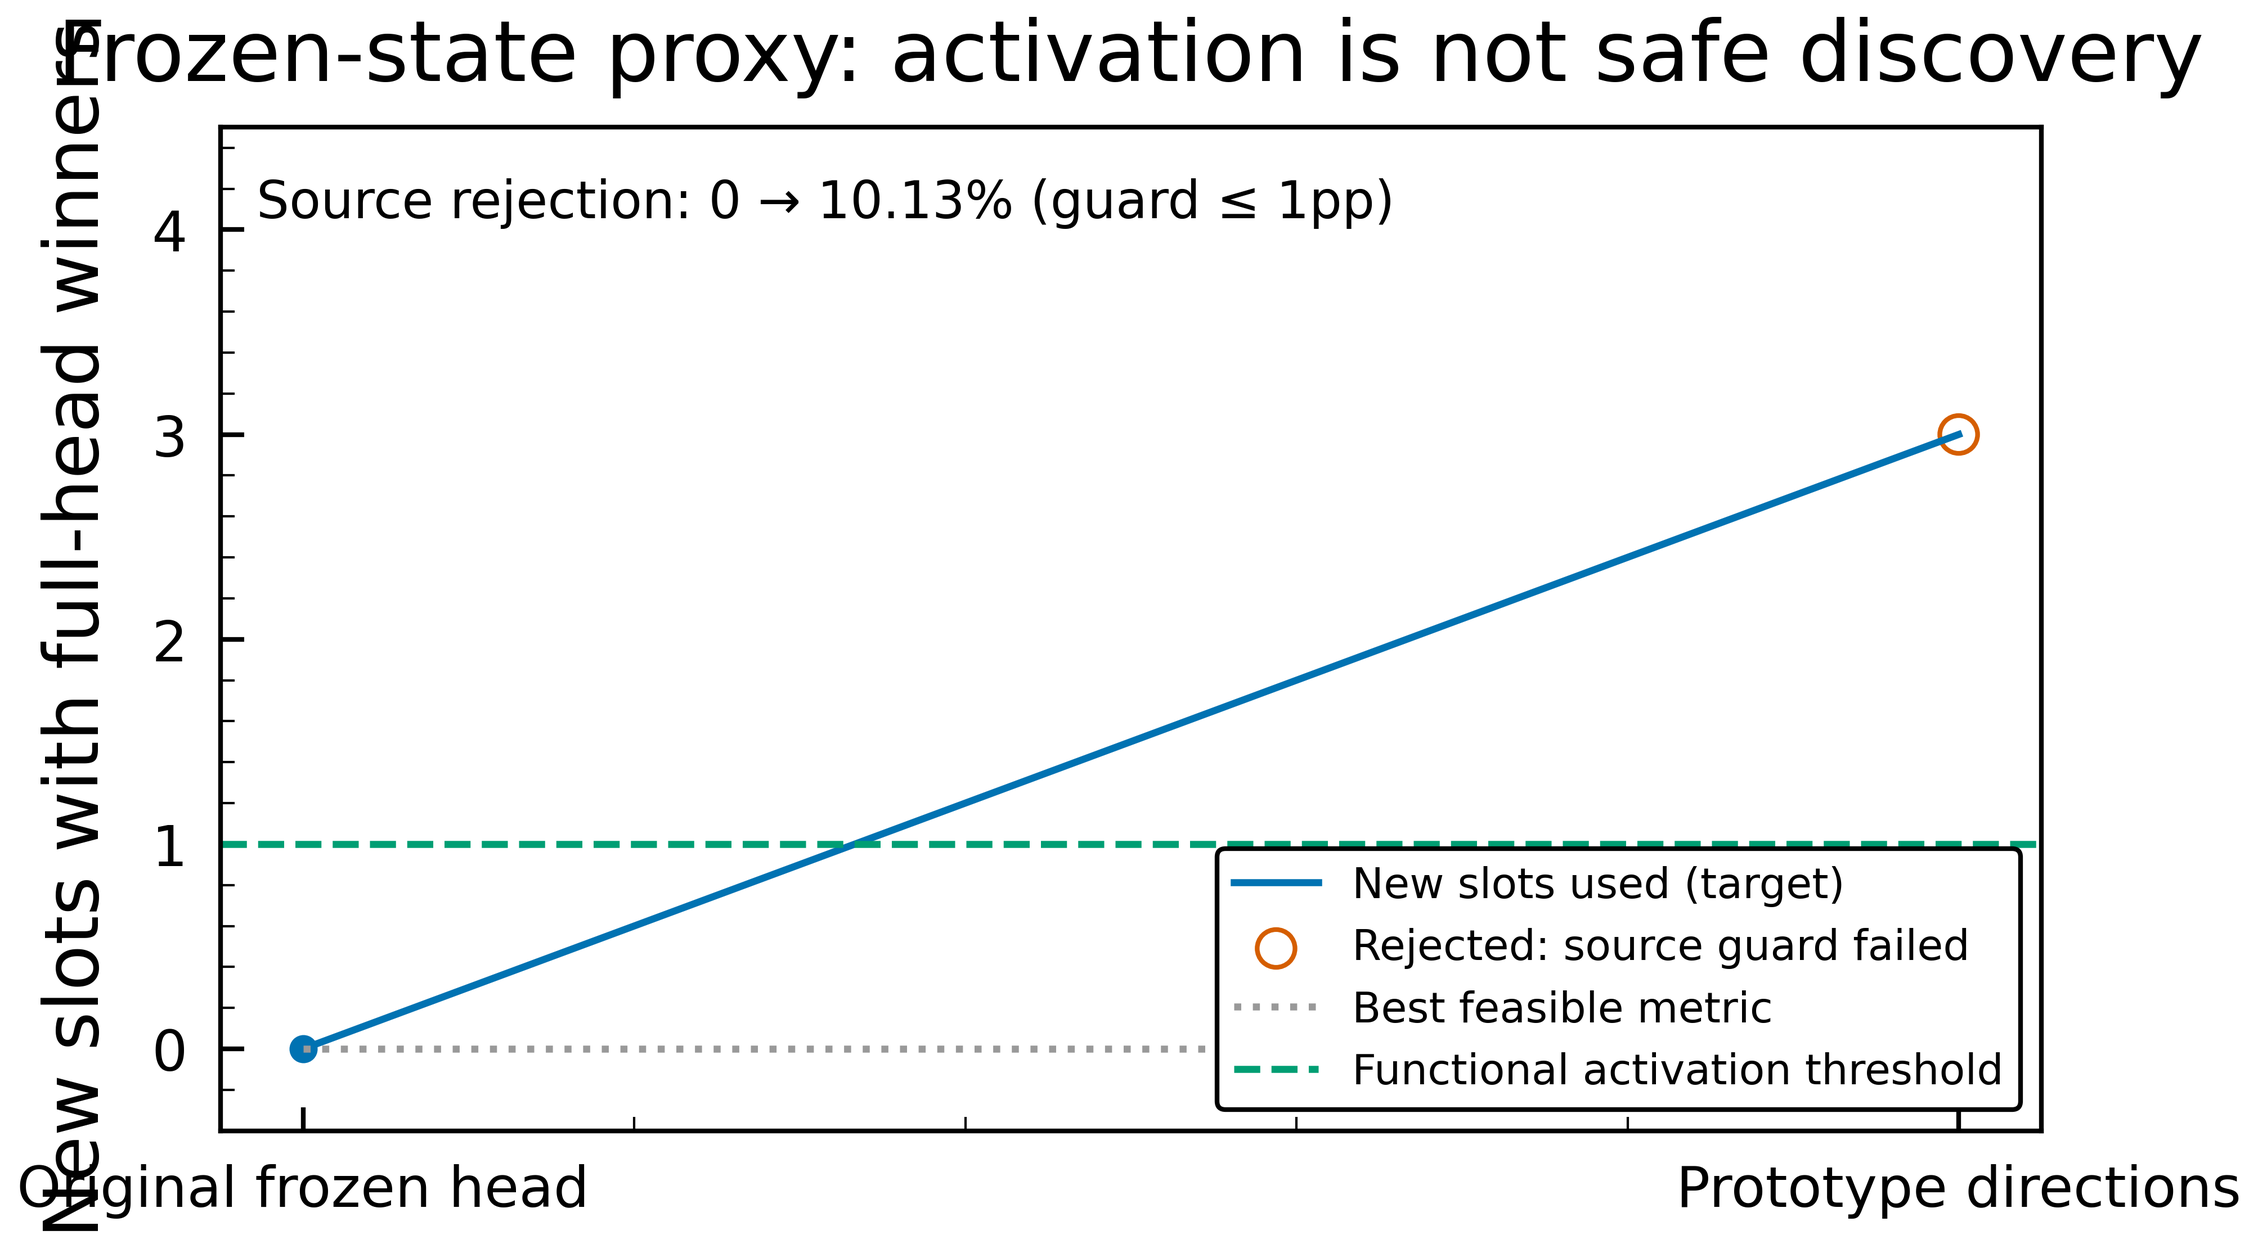
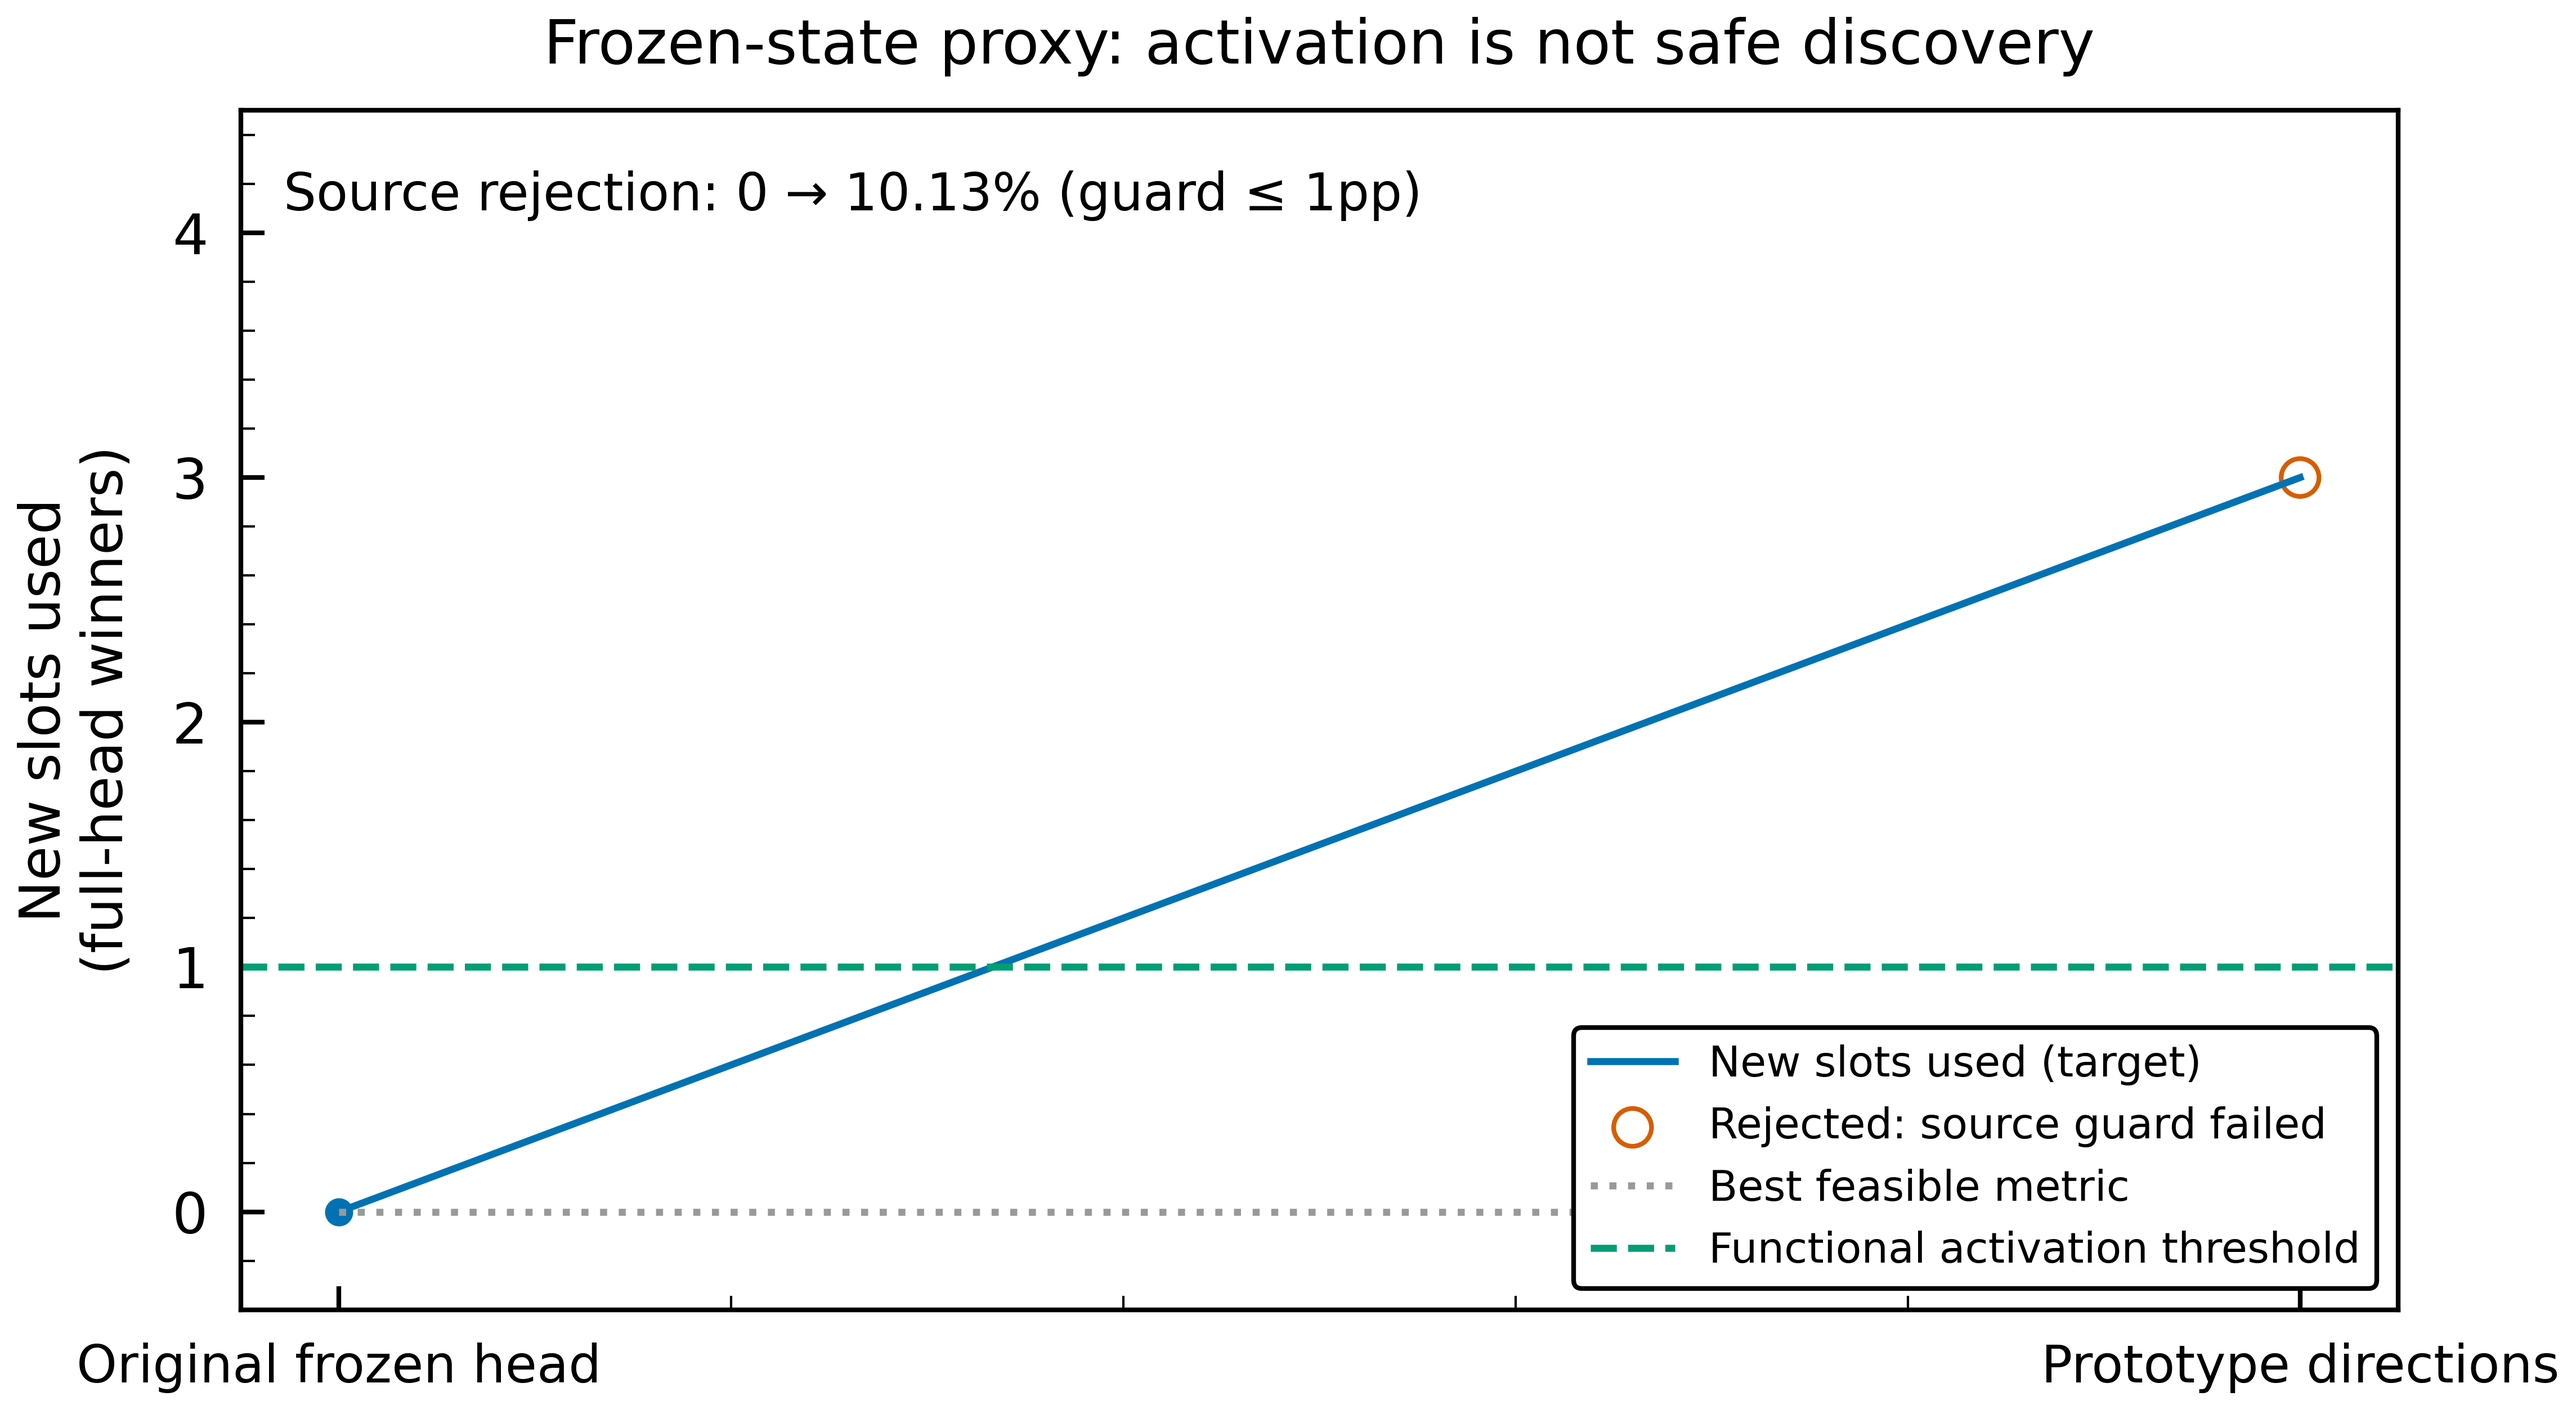
Improve initialization diagnostic figure labels

diff --git a/scripts/plot_a2w_init_proxy.py b/scripts/plot_a2w_init_proxy.py
@@ -16,16 +16,16 @@ sys.path.insert(0,a.style_root)
 from style_presets import rcparams
 rcparams()
 r=json.loads(Path(a.summary).read_text())
-fig,ax=plt.subplots(figsize=(7,4))
+fig,ax=plt.subplots(figsize=(8,4.5))
 ax.plot([0,1],[0,r['metric_new_rows_used']],color='#0072B2',label='New slots used (target)')
 ax.scatter([0],[0],color='#0072B2')
 ax.scatter([1],[r['metric_new_rows_used']],facecolors='none',edgecolors='#D55E00',s=65,label='Rejected: source guard failed')
 ax.plot([0,1],[0,0],ls=':',color='#999999',label='Best feasible metric')
 ax.axhline(1,ls='--',color='#009E73',label='Functional activation threshold')
 ax.set_ylim(-.4,4.5)
-ax.set_xticks([0,1]);ax.set_xticklabels(['Original frozen head','Prototype directions'])
-ax.set_ylabel('New slots with full-head winners')
-ax.set_title('Frozen-state proxy: activation is not safe discovery')
+ax.set_xticks([0,1]);ax.set_xticklabels(['Original frozen head','Prototype directions'],fontsize=11)
+ax.set_ylabel('New slots used\n(full-head winners)',fontsize=12)
+ax.set_title('Frozen-state proxy: activation is not safe discovery',fontsize=13)
 ax.text(.02,.95,'Source rejection: 0 → 10.13% (guard ≤ 1pp)',transform=ax.transAxes,va='top',fontsize=11)
 ax.legend(fontsize=9,loc='lower right')
 fig.tight_layout()
